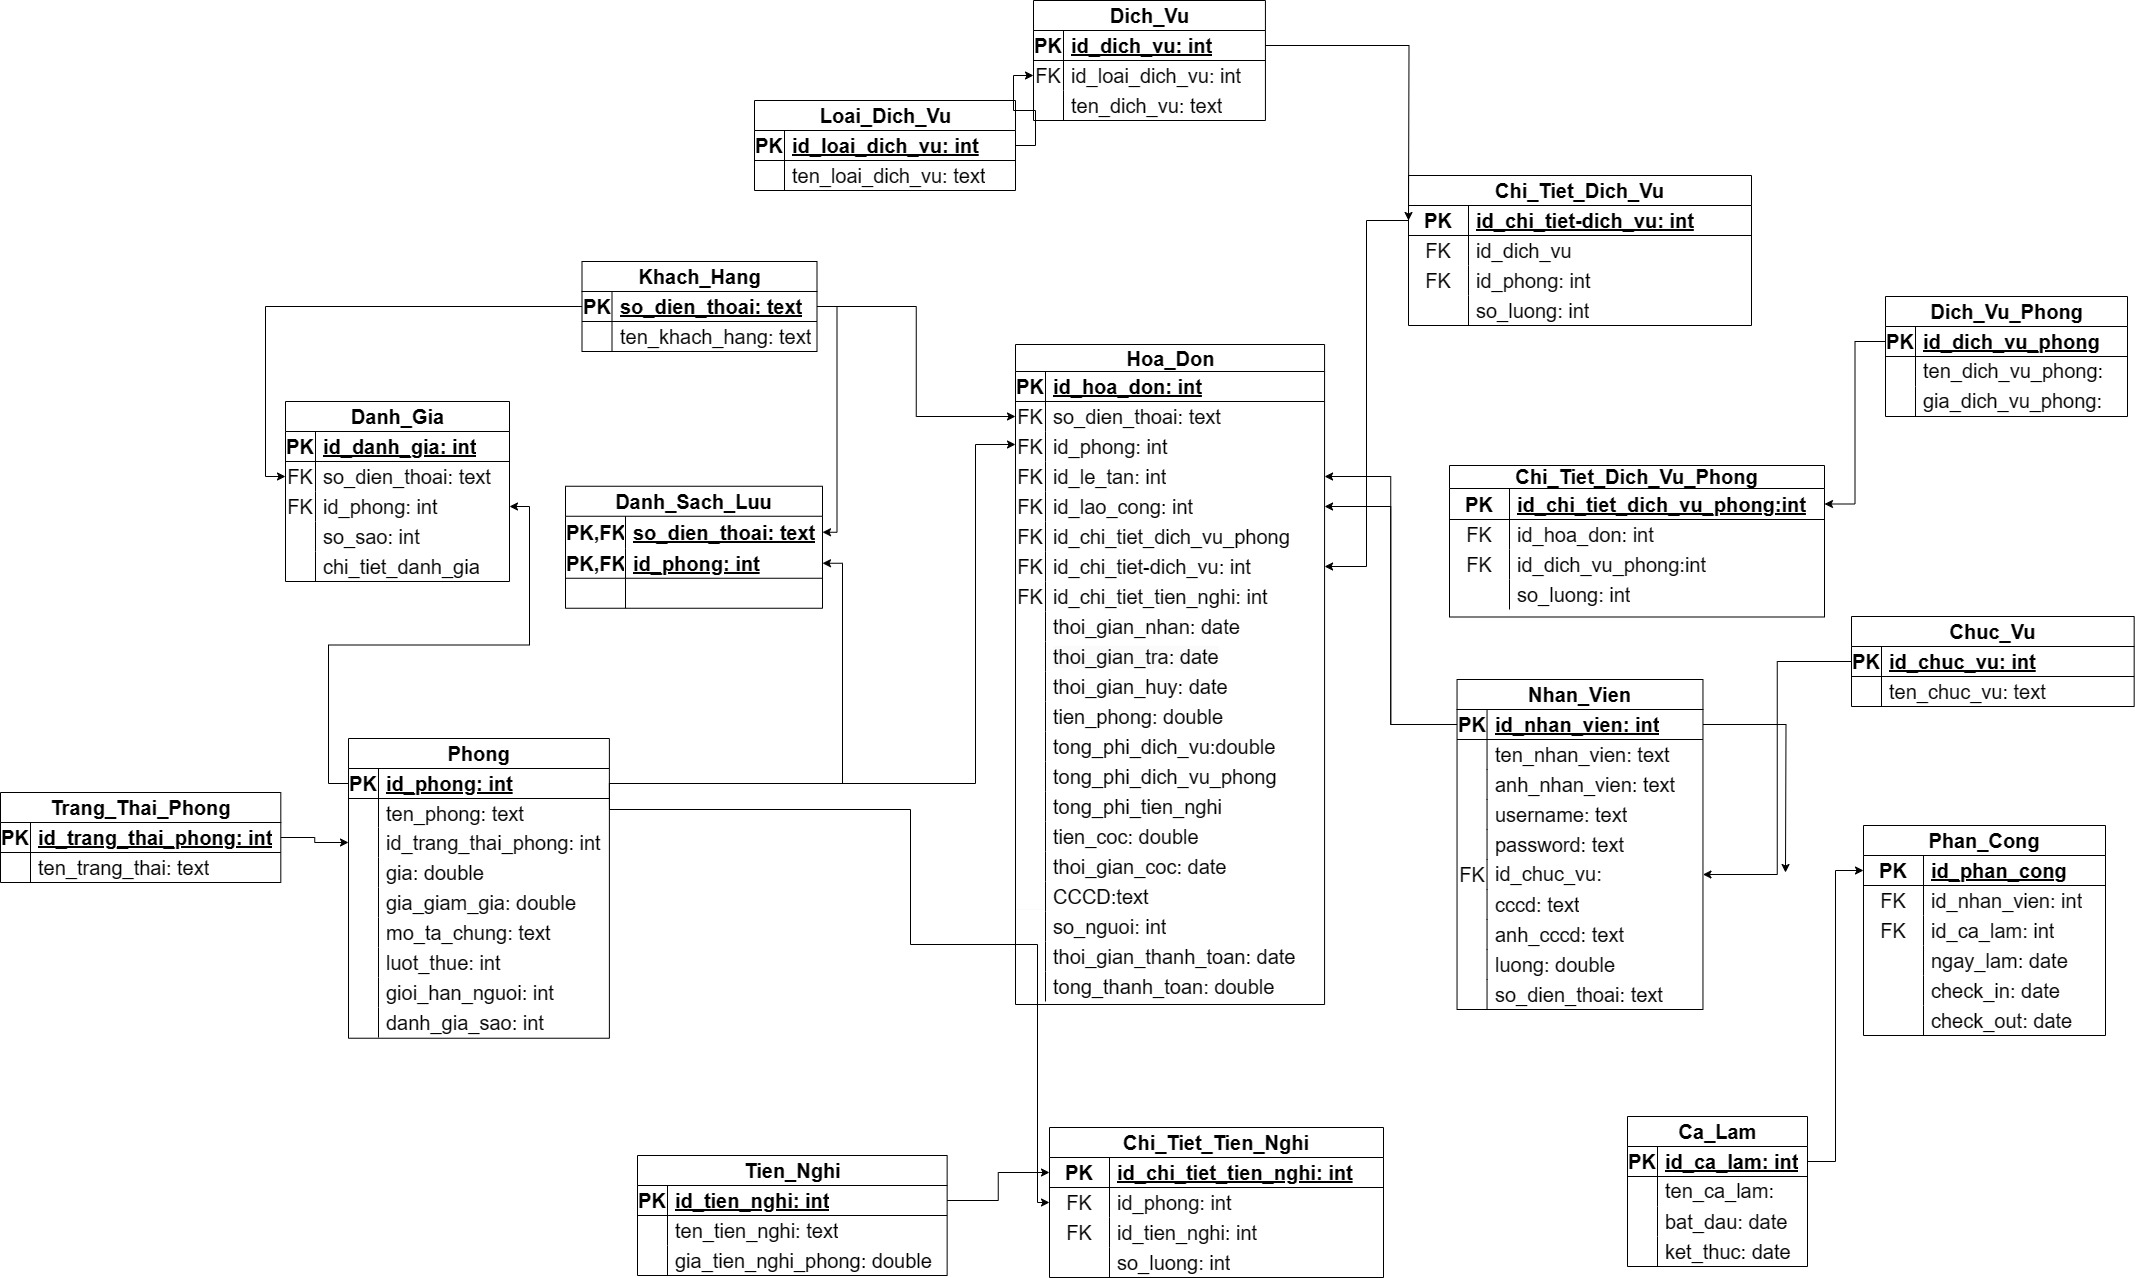
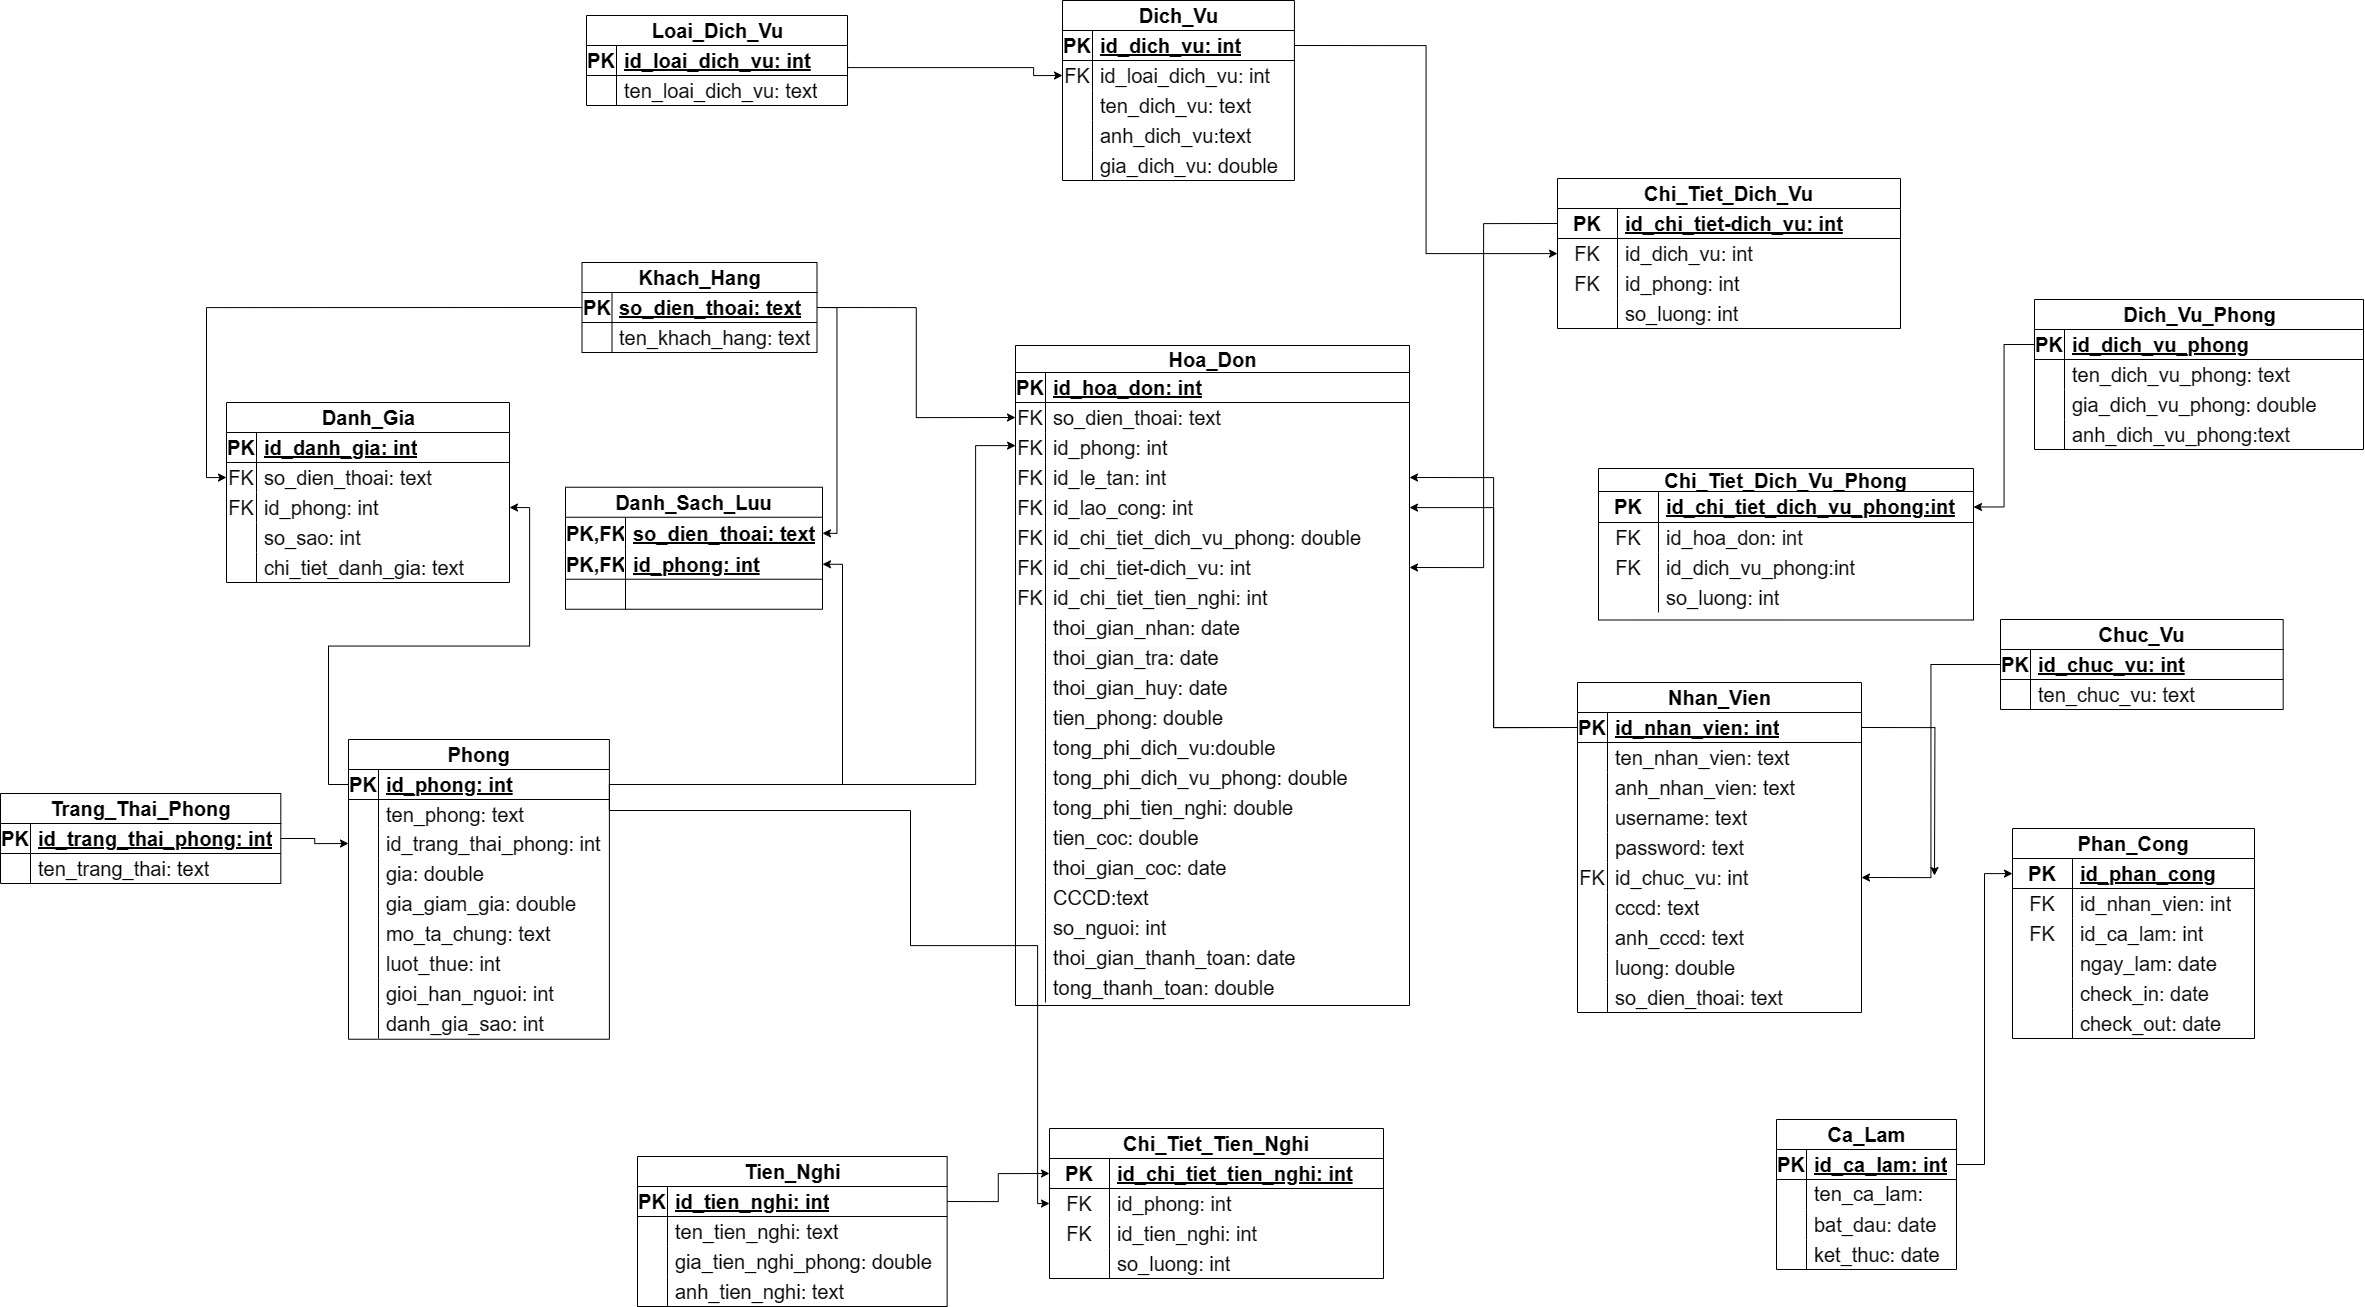
cập nhật thêm ảnh các class model

diff --git a/app/src/main/java/com/example/tdchotel_manager/Model/nhan_vien.java b/app/src/main/java/com/example/tdchotel_manager/Model/nhan_vien.java
@@ -2,8 +2,29 @@ package com.example.tdchotel_manager.Model;
 
 public class nhan_vien {
     int id_nhan_vien,id_chuc_vu,id_lich_lam;
-    String ten_nhan_vien,username, password,CCCD,so_dien_thoai;
+    String ten_nhan_vien,username, password,anh_nhan_vien,CCCD,so_dien_thoai;
     double luong;
+
+    public nhan_vien(int id_nhan_vien, int id_chuc_vu, int id_lich_lam, String ten_nhan_vien, String username, String password, String anh_nhan_vien, String CCCD, String so_dien_thoai, double luong) {
+        this.id_nhan_vien = id_nhan_vien;
+        this.id_chuc_vu = id_chuc_vu;
+        this.id_lich_lam = id_lich_lam;
+        this.ten_nhan_vien = ten_nhan_vien;
+        this.username = username;
+        this.password = password;
+        this.anh_nhan_vien = anh_nhan_vien;
+        this.CCCD = CCCD;
+        this.so_dien_thoai = so_dien_thoai;
+        this.luong = luong;
+    }
+
+    public String getAnh_nhan_vien() {
+        return anh_nhan_vien;
+    }
+
+    public void setAnh_nhan_vien(String anh_nhan_vien) {
+        this.anh_nhan_vien = anh_nhan_vien;
+    }
 
     public int getId_lich_lam() {
         return id_lich_lam;
@@ -13,17 +34,6 @@ public class nhan_vien {
         this.id_lich_lam = id_lich_lam;
     }
 
-    public nhan_vien(int id_nhan_vien, int id_chuc_vu, int id_lich_lam, String ten_nhan_vien, String username, String password, String CCCD, String so_dien_thoai, double luong) {
-        this.id_nhan_vien = id_nhan_vien;
-        this.id_chuc_vu = id_chuc_vu;
-        this.id_lich_lam = id_lich_lam;
-        this.ten_nhan_vien = ten_nhan_vien;
-        this.username = username;
-        this.password = password;
-        this.CCCD = CCCD;
-        this.so_dien_thoai = so_dien_thoai;
-        this.luong = luong;
-    }
 
     public int getId_nhan_vien() {
         return id_nhan_vien;

diff --git a/app/src/main/java/com/example/tdchotel_manager/Model/dich_vu.java b/app/src/main/java/com/example/tdchotel_manager/Model/dich_vu.java
@@ -1,13 +1,31 @@
 package com.example.tdchotel_manager.Model;
 
 public class dich_vu {
-    int id_dich_vu,gia_dich_vu;
-    String ten_dich_vu;
+    int id_dich_vu,id_loai_dich_vu, gia_dich_vu;
+    String ten_dich_vu, anh_dich_vu;
 
-    public dich_vu(int id_dich_vu, int gia_dich_vu, String ten_dich_vu) {
+    public dich_vu(int id_dich_vu, int id_loai_dich_vu, int gia_dich_vu, String ten_dich_vu, String anh_dich_vu) {
         this.id_dich_vu = id_dich_vu;
+        this.id_loai_dich_vu = id_loai_dich_vu;
         this.gia_dich_vu = gia_dich_vu;
         this.ten_dich_vu = ten_dich_vu;
+        this.anh_dich_vu = anh_dich_vu;
+    }
+
+    public int getId_loai_dich_vu() {
+        return id_loai_dich_vu;
+    }
+
+    public void setId_loai_dich_vu(int id_loai_dich_vu) {
+        this.id_loai_dich_vu = id_loai_dich_vu;
+    }
+
+    public String getAnh_dich_vu() {
+        return anh_dich_vu;
+    }
+
+    public void setAnh_dich_vu(String anh_dich_vu) {
+        this.anh_dich_vu = anh_dich_vu;
     }
 
     public int getId_dich_vu() {

diff --git a/app/src/main/java/com/example/tdchotel_manager/Model/dich_vu_phong.java b/app/src/main/java/com/example/tdchotel_manager/Model/dich_vu_phong.java
@@ -2,13 +2,22 @@ package com.example.tdchotel_manager.Model;
 
 public class dich_vu_phong {
     int id_dich_vu_phong;
-    String ten_dich_vu_phong;
+    String ten_dich_vu_phong, anh_dich_vu_phong;
     double gia_dich_vu_phong;
 
-    public dich_vu_phong(int id_dich_vu_phong, String ten_dich_vu_phong, double gia_dich_vu_phong) {
+    public dich_vu_phong(int id_dich_vu_phong, String ten_dich_vu_phong, String anh_dich_vu_phong, double gia_dich_vu_phong) {
         this.id_dich_vu_phong = id_dich_vu_phong;
         this.ten_dich_vu_phong = ten_dich_vu_phong;
+        this.anh_dich_vu_phong = anh_dich_vu_phong;
         this.gia_dich_vu_phong = gia_dich_vu_phong;
+    }
+
+    public String getAnh_dich_vu_phong() {
+        return anh_dich_vu_phong;
+    }
+
+    public void setAnh_dich_vu_phong(String anh_dich_vu_phong) {
+        this.anh_dich_vu_phong = anh_dich_vu_phong;
     }
 
     public int getId_dich_vu_phong() {

diff --git a/app/src/main/java/com/example/tdchotel_manager/Model/tien_nghi.java b/app/src/main/java/com/example/tdchotel_manager/Model/tien_nghi.java
@@ -2,12 +2,21 @@ package com.example.tdchotel_manager.Model;
 
 public class tien_nghi {
     int id_tien_nghi, gia_tien_nghi;
-    String ten_tien_nghi;
+    String ten_tien_nghi,anh_tien_nghi;
 
-    public tien_nghi(int id_tien_nghi, int gia, String ten_tien_nghi) {
+    public tien_nghi(int id_tien_nghi, int gia_tien_nghi, String ten_tien_nghi, String anh_tien_nghi) {
         this.id_tien_nghi = id_tien_nghi;
-        this.gia_tien_nghi = gia;
+        this.gia_tien_nghi = gia_tien_nghi;
         this.ten_tien_nghi = ten_tien_nghi;
+        this.anh_tien_nghi = anh_tien_nghi;
+    }
+
+    public String getAnh_tien_nghi() {
+        return anh_tien_nghi;
+    }
+
+    public void setAnh_tien_nghi(String anh_tien_nghi) {
+        this.anh_tien_nghi = anh_tien_nghi;
     }
 
     public int getId_tien_nghi() {
